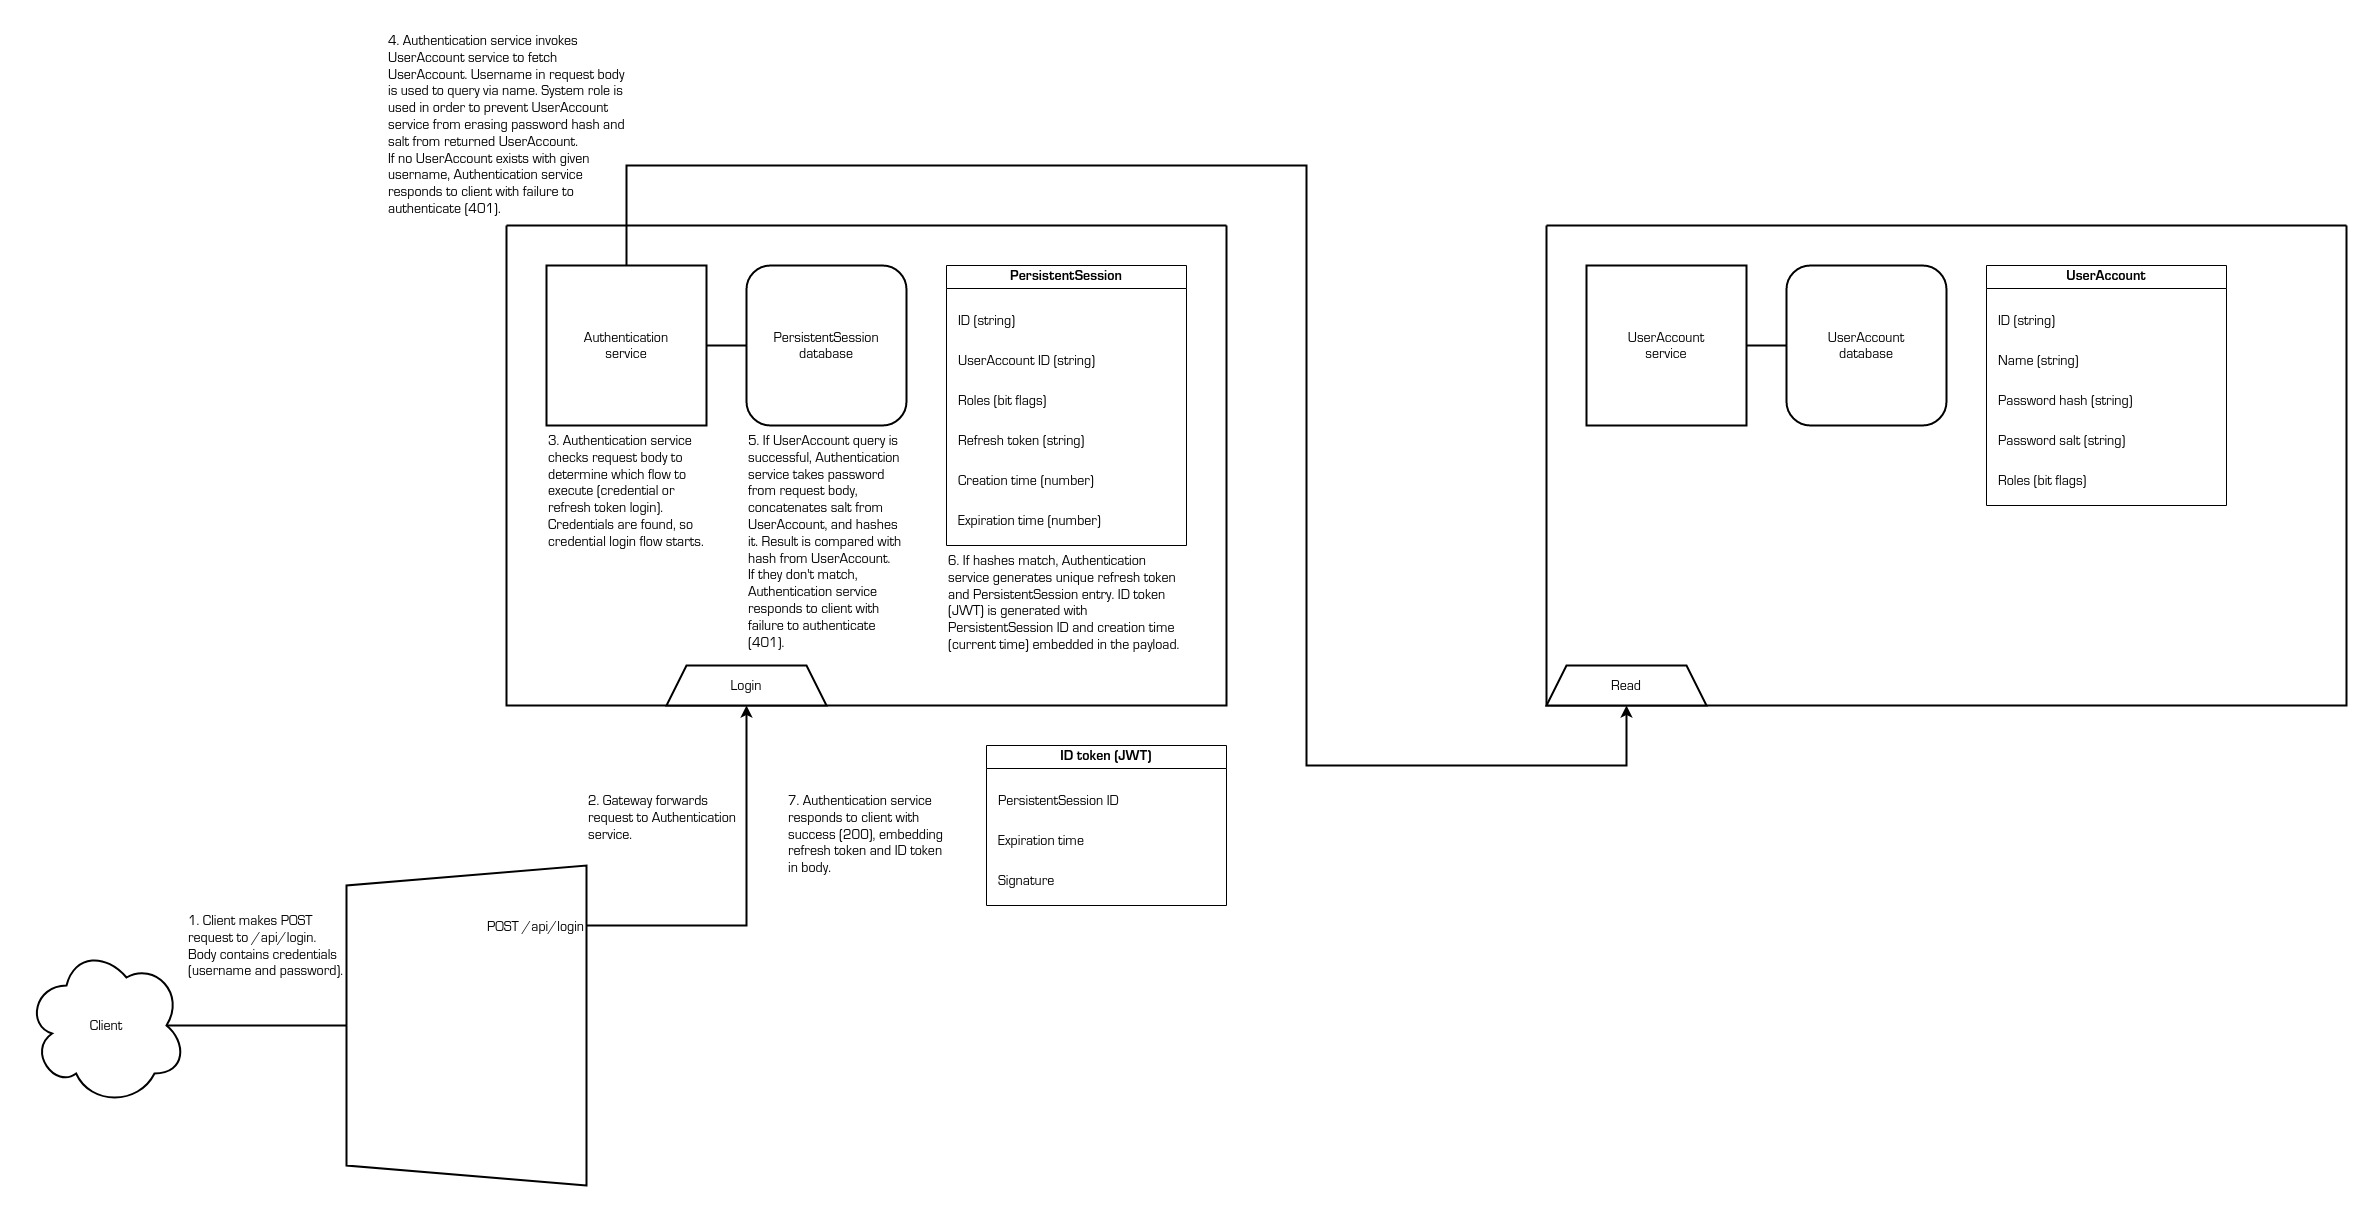
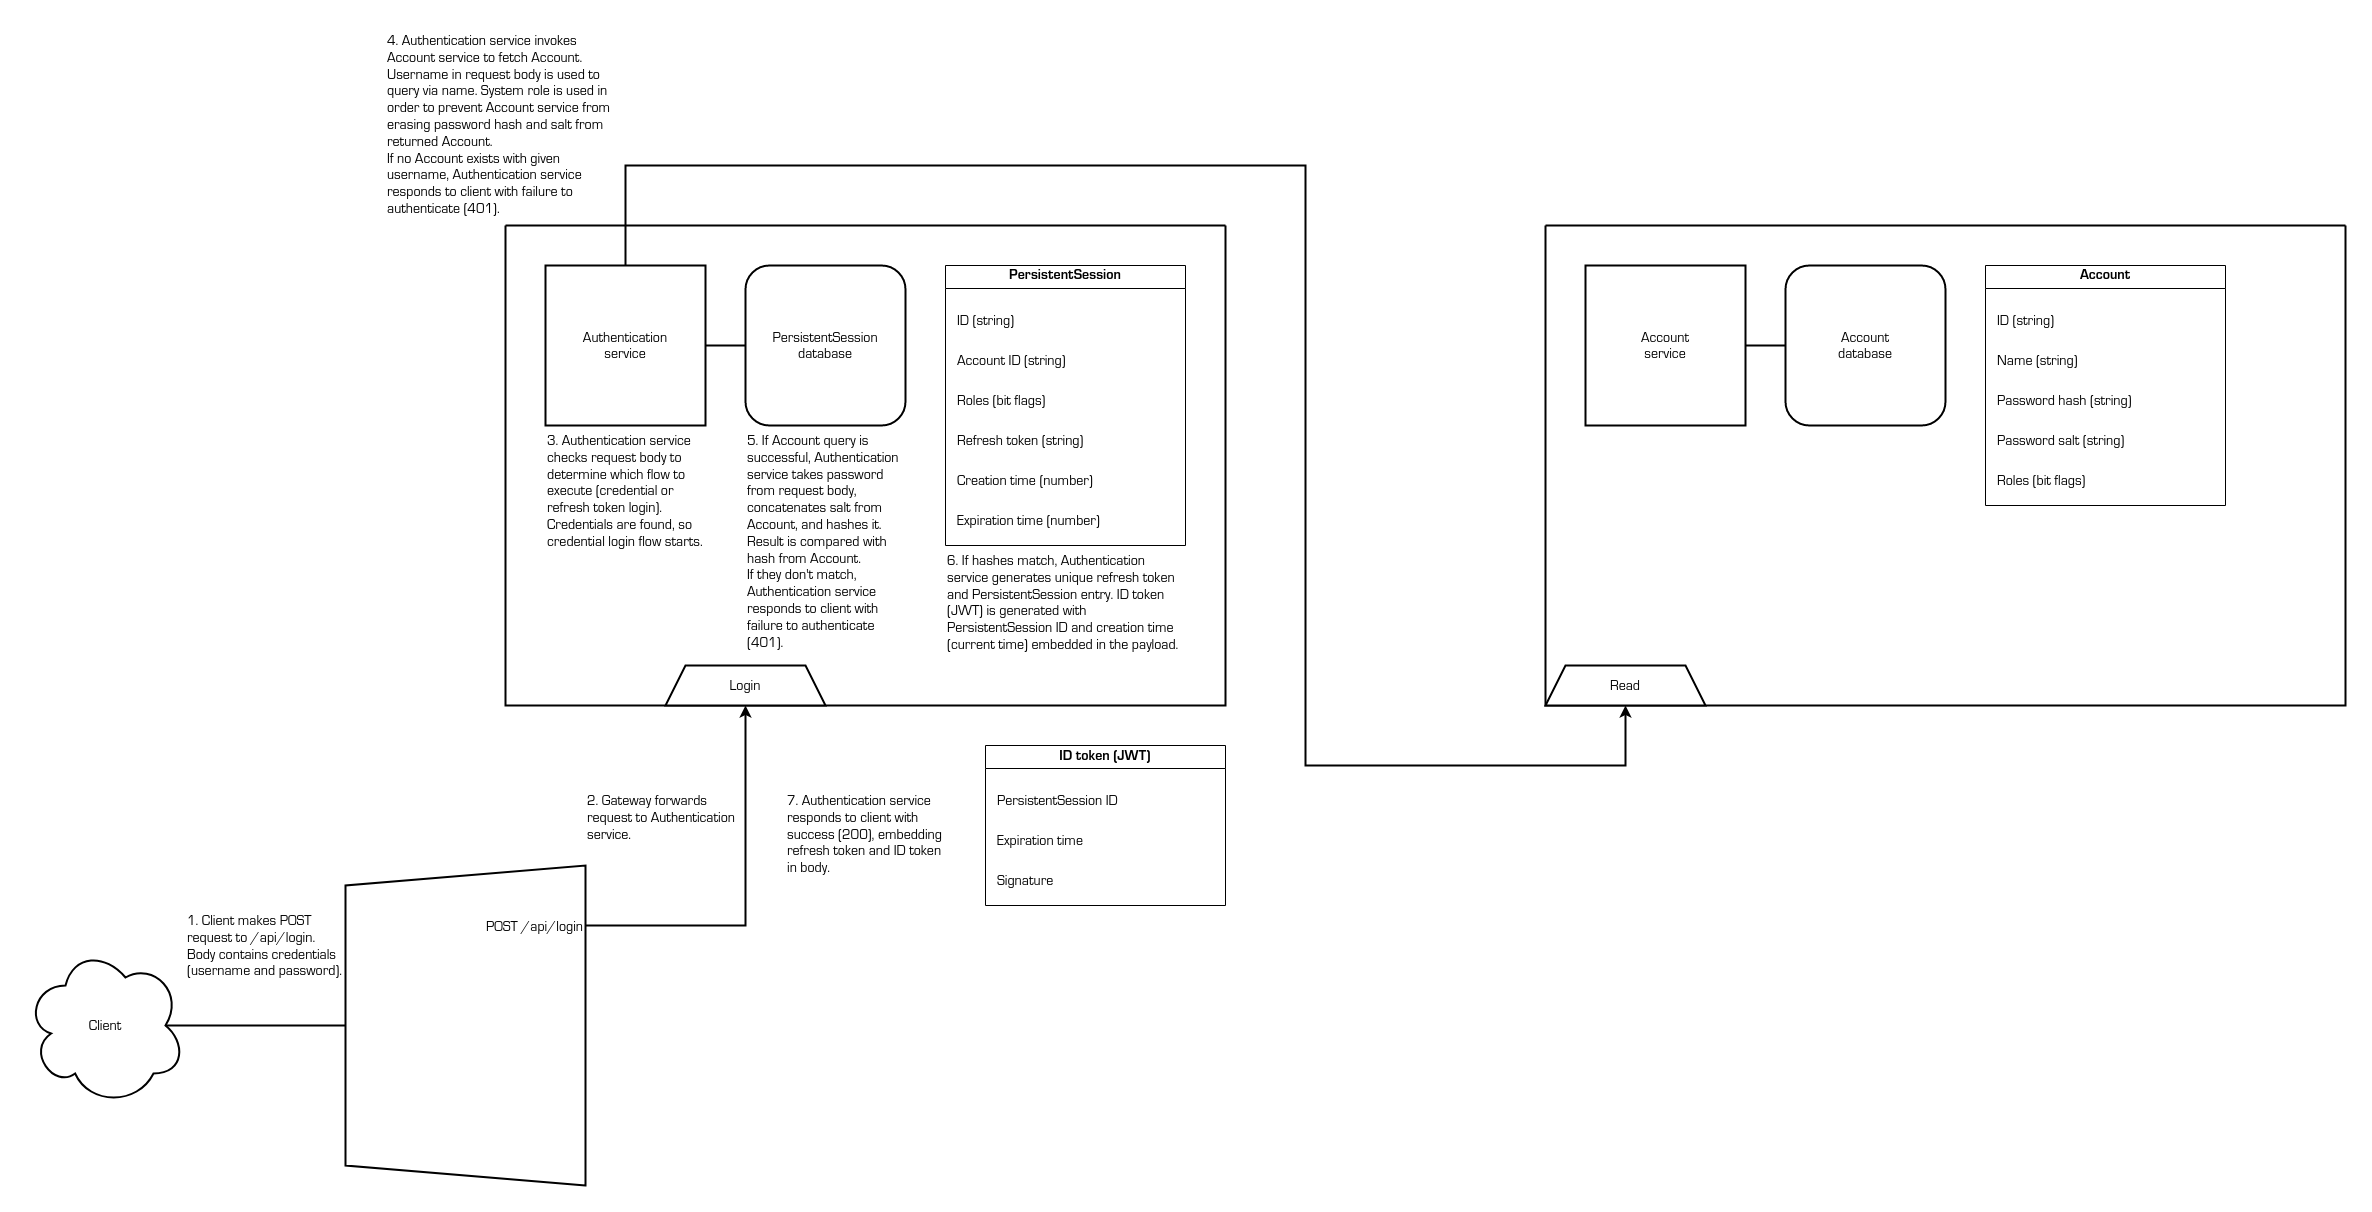
Update readme and diagrams per UserAccount rename to Account

diff --git a/readme.md b/readme.md
@@ -4,15 +4,15 @@ This project serves as a foundation to build on top of when developing a
 microservice-oriented HTTP API. Two services are provided:
 
 - Authentication service
-- User account service
+- Account service
 
 These two services provide the following functionalities:
 
-- User account creation
+- Account creation
 - Login
 - ID token refresh
 - Logout with proper token revocation
-- User account read, update, and delete (with access control)
+- Account read, update, and delete (with access control)
 - Granular access control over resources and other APIs
 
 As application-specific services are introduced into this ecosystem, these nodes
@@ -46,10 +46,10 @@ information that gets sent alongside every request to every service. It is used
 by the service to determine whether the request should be accepted or denied. It
 is comprised of the following information:
 
-- **The identity of the caller**: This is the ID (UUID) of the user account that
-the authentication service has correlated with the client. This would, for
-example, be used by the service to allow reading of private data that is
-restricted to the owner user only.
+- **The identity of the caller**: This is the ID (UUID) of the account that the
+authentication service has correlated with the client. This would, for example,
+be used by the service to allow reading of private data that is restricted to
+the owner user only.
 - **The roles of the caller**: This is a bit-flag represented in plain decimal
 form. Each bit represents a different role; a 1 signifies that the caller
 possesses the role. Starting from the least significant bit (right to left), the
@@ -62,10 +62,10 @@ the existing entries.
 - **The time that the authentication was confirmed**: This is the point in time
 that the user provided their credentials to verify their identity and generate
 the ID token that is currently being used. This is used by certain services to
-allow access to more privileged actions. For example, the user account service
+allow access to more privileged actions. For example, the account service
 restricts account modification and termination to sessions that are no older
 than 15 minutes; if it has been over 15 minutes since the login event, the
-session may still be valid, but the user account service will deny requests for
+session may still be valid, but the account service will deny requests for
 account modification and termination. This protects the user from scenarios
 where a third party gains physical access to the user's device and tries to
 modify the user's password.
@@ -219,10 +219,10 @@ behalf of the client.
 
 One such case would be the login flow, where the client makes an unauthenticated
 request. The authentication service needs to fetch the (hashed) credential
-information from the user account service, an action that the user account
-service would normally deny due to the lack of authority information. Thus, the
-authentication service proceeds with a system override and sets the
-`authority-roles` header to `1` in its request to the user account service.
+information from the account service, an action that the account service would
+normally deny due to the lack of authority information. Thus, the authentication
+service proceeds with a system override and sets the `authority-roles` header to
+`1` in its request to the account service.
 
 It's very important that any confidential data that is fetched in this manner
 do not get propagated back to the client. In the example with the login flow,
@@ -442,6 +442,6 @@ whether a request should be processed.
 
 *This section is under construction.*
 
-## Internal design of user account service
+## Internal design of account service
 
 *This section is under construction.*
